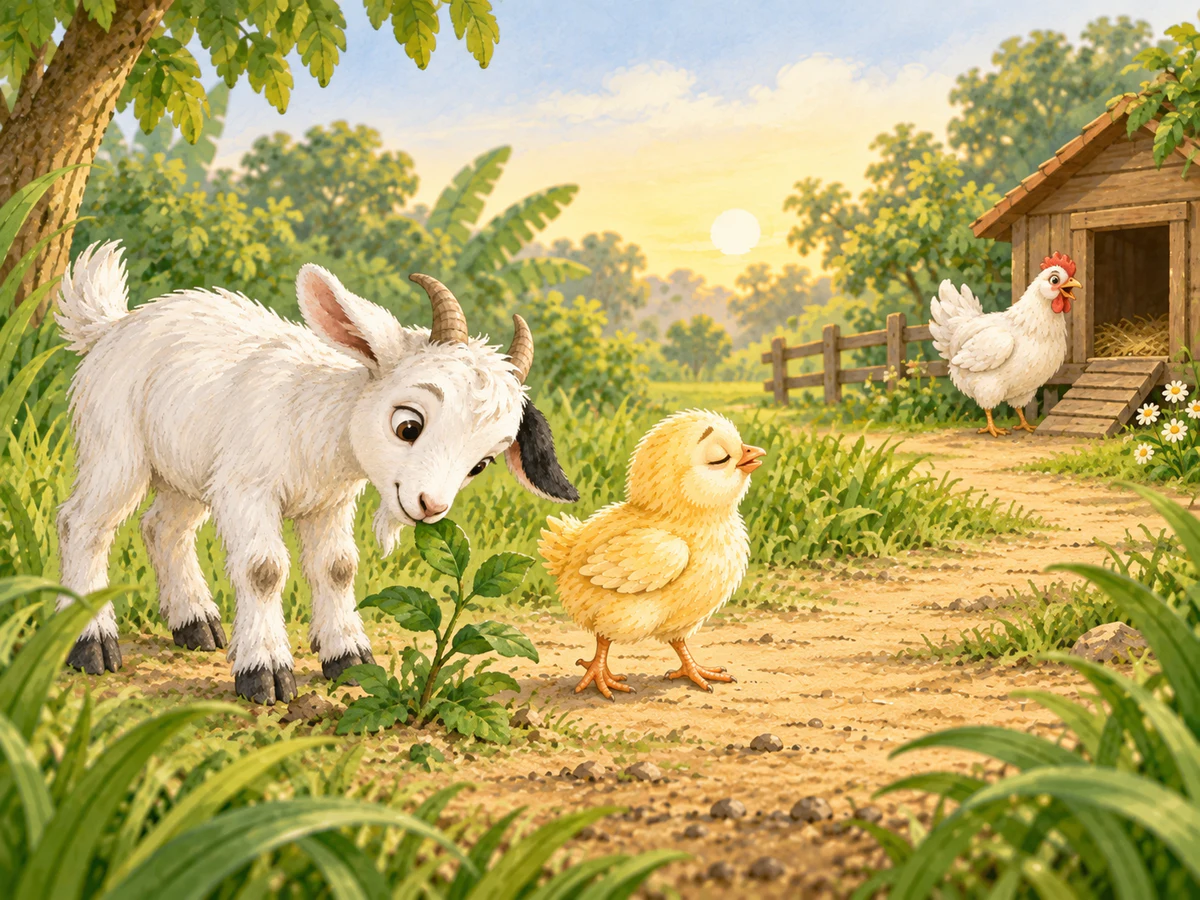
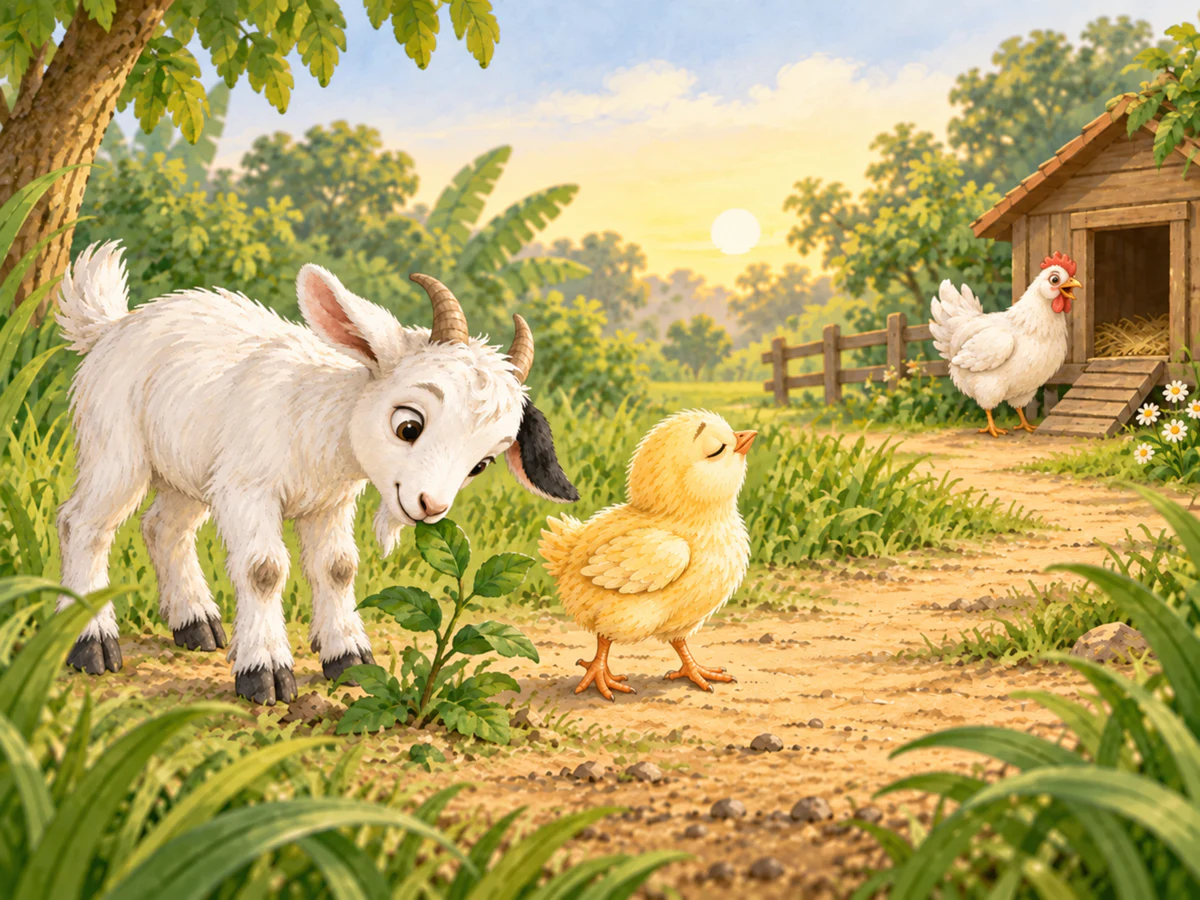
Correct Kumu listening frame for rereview

diff --git a/tests/unit/visual-qa-tracker.test.ts b/tests/unit/visual-qa-tracker.test.ts
@@ -70,7 +70,12 @@ describe("the final September visual QA tracker", () => {
     if (!qa.frozen) return;
     const pendingLessons = new Set(
       richMediaPilot.assets
-        .filter((asset) => asset.reviewState === "awaiting-independent-reconfirmation")
+        .filter((asset) =>
+          [
+            "awaiting-independent-reconfirmation",
+            "corrected-awaiting-independent-reconfirmation",
+          ].includes(asset.reviewState),
+        )
         .flatMap((asset) => asset.approvalImpact.lessonIds),
     );
     for (const asset of data.media) {
@@ -81,7 +86,11 @@ describe("the final September visual QA tracker", () => {
         `${asset.id} moved outside the controlled rollout`,
       ).toContain(pilot?.implementationState);
       expect(
-        ["independently-reconfirmed", "awaiting-independent-reconfirmation"],
+        [
+          "independently-reconfirmed",
+          "awaiting-independent-reconfirmation",
+          "corrected-awaiting-independent-reconfirmation",
+        ],
         `${asset.id} has no controlled review state`,
       ).toContain(pilot?.reviewState);
       expect(pilot?.afterHash, `${asset.id} does not match the audited pilot hash`).toBe(

diff --git a/scripts/visual-reconfirmation.ts b/scripts/visual-reconfirmation.ts
@@ -348,8 +348,9 @@ for (const levelId of levels) {
     "",
     "Pour chaque ligne : aucun texte lu à l’enfant, aucun texte lu à l’adulte, aucun objectif et",
     "aucune progression n’a changé (vérifié avant l’écriture de ce document). **La seule raison**",
-    "du changement d’empreinte est la ligne « image » : ses octets ont changé, et l’empreinte d’une",
-    "approbation couvre les octets de chaque image montrée (ISSUE-026, ADR-048).",
+    "du changement d’empreinte est la présentation visuelle : les octets des images, leurs descriptions",
+    "accessibles et, pour une séquence, sa table page-cadre participent à l’empreinte couverte par",
+    "l’approbation (ISSUE-026, ADR-048).",
     "Pour une séquence, les colonnes « empreinte » ci-dessous abrègent le hash du cadre principal ;",
     "la section « Séquences des histoires » donne tous les SHA-256 et explique l’empreinte complète.",
     "",

diff --git a/docs/work/ACTIVE_TASK.md b/docs/work/ACTIVE_TASK.md
@@ -5,12 +5,44 @@
 September Rich-Media Visual Upgrade
 
 **Current phase:** the controlled pilot and rollout batches 1–4 are independently accepted and fully
-reapproved. Rollout batch 5 integrates only the four-page `histoire-kumu` sequence; exactly four dependent
-lessons are at `review`, 172 remain approved, and all 172 unaffected lesson records remain byte-for-byte
-unchanged. The Kumu review package is frozen locally and awaits owner authorization for bounded Claude Max
-transmission. Production remains unchanged.
+reapproved. The first independent Batch-5 review accepted Kumu frames 1, 2 and 4 and requested one bounded
+frame-3 correction so Kumu's closed eyes remain unmistakable at 256 px. Only frame 3 and the evidence wording
+changed; exactly four dependent lessons remain at `review`, 172 remain approved, and all 172 unaffected lesson
+records remain byte-for-byte unchanged. Corrected evidence is frozen locally and requires fresh owner
+authorization before a second bounded Claude Max review. Production remains unchanged.
 
-## Rollout batch 5 frozen for review — 2026-09-28
+## Rollout batch 5 corrected after independent review — 2026-09-28
+
+- **Reviewer verdict:** Claude Max / Opus 5.5 returned `accepted-with-modifications`. It accepted frames 1, 2
+  and 4, the 12-line / four-page mapping, all unchanged teaching fields, the four expected lapses and the
+  sequence's overall preschool suitability. It requested only clearer closed eyelids and a listening head pose
+  for Kumu in frame 3 at the real 256 px story size.
+- **Independent verification:** the canonical third page says Kumu closes his eyes and listens. The original
+  frame contained a very fine closed eyelid, but the mark became easy to miss at 256 px. The concern was
+  accepted as a small semantic-legibility defect, not a lesson-content defect.
+- **Correction:** only `public/media/illustrations/histoire-kumu-03.webp` was regenerated. Kumu now has clearly
+  closed curved eyelids and raises his head toward the coop. The goat still eats one leaf, the white hen remains
+  beside the same coop, and the path, warm morning, 4:3 framing and text-free painted style remain coherent.
+  The corrected 1200×900 WebP SHA-256 is
[1 lines of base64/hex data omitted]
+- **Evidence precision:** the dossier generator now states that image bytes, accessible descriptions and a
+  sequence's page-to-frame table all participate in the approval fingerprint. The corrected comparison sheet
+  and 3ème maternelle dossier expose the new frame-3 hash while frames 1, 2 and 4 remain unchanged.
+- **Approval integrity:** no approval was restored. September remains 172 approved / 4 review; the affected
+  lessons remain exactly `m3-lang-03`, `m3-lang-04`, `m3-lang-09` and `m3-lang-17`.
+- **Validation:** formatting, lint, typecheck, all 438 unit tests, 31-file content validation, the Webpack
+  production build, three-sentinel client-bundle scan, zero-lapse dry run and the four-width rich-media E2E
+  pass. The default Turbopack build still hits the known local worker port-binding restriction; Webpack is the
+  validated production-build fallback used by this project.
+- **Corrected isolated package:** `/tmp/teka-rollout-batch5-corrected-review` contains exactly the dossier
[2 lines of base64/hex data omitted]
+  (`dc4830e9b3f1ed79a8a32a10a6bd56a1773075ea1eb4c1f23d33567a2e929e2`).
+- **Exact resume point:** obtain fresh owner authorization for only the corrected isolated dossier, comparison
+  sheet and bounded reviewer prompt. Send nothing before that authorization. Restore approvals only after an
+  explicit `accepted` verdict on the corrected evidence.
+
+## Rollout batch 5 initial package frozen for review — 2026-09-28
 
 - **Canonical mapping:** `kumu-le-petit-poussin` contains exactly 12 unchanged lines. The renderer groups three
   story lines per page, producing exactly four pages. The registered sequence maps them one-to-one as
@@ -31,9 +63,8 @@ transmission. Production remains unchanged.
 - **Responsive QA:** the existing rollout E2E loads frames 1–4 in order and verifies natural width, decoding,
   document width and dialog width at 320×740, 768×1024, 1440×900 and 1920×1080. Phone and desktop inspection
   found no broken image, crop, distortion, overflow, adult-content leak or misleading interaction.
-- **Exact resume point:** request explicit owner authorization to send only the frozen 3ème maternelle package,
-  Batch-5 comparison sheet and bounded reviewer prompt through authenticated Claude Max. Restore no approval
-  before an explicit independent `accepted` verdict.
+- **Historical resume point:** the owner authorized this first package; the resulting review and correction are
+  recorded in the newer checkpoint above.
 
 ## Rollout batch 4 independently accepted — 2026-09-27
 

diff --git a/docs/review/2026-2027-maternelle-3-reconfirmation-visuelle.md b/docs/review/2026-2027-maternelle-3-reconfirmation-visuelle.md
@@ -42,7 +42,7 @@ compter), 128 px (une carte de mot), 256 px (l’image d’une histoire).
 | --------------- | ------- | -------------------------------------------------- | ------------------------------------------------------------------------- | -------------------------------------------------------------------------------------------------------------------------------------------------------- |
 | `histoire-kumu` | 1       | `public/media/illustrations/histoire-kumu-01.webp` | `sha256:027ee3b6119faf82c9b58d974846b73e5531b71d5309516b0d8446715f9542be` | Kumu, petit poussin jaune, sort seul du poulailler ouvert tandis que sa maman poule reste derrière lui, près d’un grand manguier et d’un grand seau bleu |
 | `histoire-kumu` | 2       | `public/media/illustrations/histoire-kumu-02.webp` | `sha256:46c72911eec6b4765ccfa37e66ced474e13db28cd5c8144ec20d9517755723b9` | Loin de la maison, Kumu s’arrête sur le chemin et appelle tandis qu’un petit lézard passe en courant                                                     |
-| `histoire-kumu` | 3       | `public/media/illustrations/histoire-kumu-03.webp` | `sha256:f1762fda23ece1bd3c7ce0460b50e49f4b6b299c55b29ba6e2db820cb7d6755a` | Une jeune chèvre mange une feuille pendant que Kumu ferme les yeux et écoute sa maman poule appeler près du poulailler                                   |
+| `histoire-kumu` | 3       | `public/media/illustrations/histoire-kumu-03.webp` | `sha256:3d55d4687ed29f49b0fb5f6934edfb3e918cbba295464f1bfb15ddeb99e7dd95` | Une jeune chèvre mange une feuille pendant que Kumu ferme les yeux et écoute sa maman poule appeler près du poulailler                                   |
 | `histoire-kumu` | 4       | `public/media/illustrations/histoire-kumu-04.webp` | `sha256:3c3a60bdd2fc1913b8394fb8643fa98a545a51ff91fb11d25abf56282b57b13a` | Devant le poulailler, Kumu se blottit au chaud sous l’aile ouverte de sa maman poule et la regarde                                                       |
 
 L’empreinte d’approbation ne se limite pas au hash principal affiché dans le tableau des
@@ -105,8 +105,9 @@ de 3 lignes ; une comptine tient sur une seule page.
 
 Pour chaque ligne : aucun texte lu à l’enfant, aucun texte lu à l’adulte, aucun objectif et
 aucune progression n’a changé (vérifié avant l’écriture de ce document). **La seule raison**
-du changement d’empreinte est la ligne « image » : ses octets ont changé, et l’empreinte d’une
-approbation couvre les octets de chaque image montrée (ISSUE-026, ADR-048).
+du changement d’empreinte est la présentation visuelle : les octets des images, leurs descriptions
+accessibles et, pour une séquence, sa table page-cadre participent à l’empreinte couverte par
+l’approbation (ISSUE-026, ADR-048).
 Pour une séquence, les colonnes « empreinte » ci-dessous abrègent le hash du cadre principal ;
 la section « Séquences des histoires » donne tous les SHA-256 et explique l’empreinte complète.
 

diff --git a/PROJECT_STATUS.md b/PROJECT_STATUS.md
@@ -73,15 +73,17 @@ standard lapsed-only mechanism restored exactly the eight affected lessons with 
 and zero stale approvals remain. The next local batch is the four-page `histoire-kumu` sequence; fresh owner
 authorization is still required before its eventual independent-review package is transmitted.
 
-Rollout batch 5 is frozen locally for independent review. The unchanged 12-line `histoire-kumu` renders as
-four three-line pages and now maps exactly to four 1200×900 WebP scenes: Kumu leaves the coop; calls beside a
-passing lizard; listens beside the leaf-eating goat and finds his mother’s voice; then shelters beneath her
-wing. Character, setting and morning continuity hold across the sequence, with no embedded text. The standard
-lapse mechanism moved exactly `m3-lang-03`, `m3-lang-04`, `m3-lang-09` and `m3-lang-17` to `review`; September is
-172 approved / 4 review and all other 172 lesson records remain byte-for-byte unchanged from `e5c8398`. The
-four-width rollout E2E verifies page order, loaded 1200 px images and zero viewport/dialog overflow; phone and
-desktop inspection found no visual or interaction defect. The Kumu-only dossier and comparison sheet are ready
-locally. They must not be sent to Claude Max until the owner gives fresh explicit authorization.
+The first independent Batch-5 review returned `accepted-with-modifications`: frames 1, 2 and 4, the unchanged
+12-line / four-page mapping and the four expected lapses passed, while frame 3 needed Kumu's closed eyes to read
+more clearly at 256 px. Independent inspection confirmed that the original eyelid was too fine at that size.
+Only frame 3 was regenerated; Kumu now visibly closes both eyes and raises his head toward the coop while the
+leaf-eating goat, white hen, coop, path, warm morning and text-free painted scene remain coherent. The corrected
[1 lines of base64/hex data omitted]
+The dossier generator also now names image bytes, accessible descriptions and sequence page mappings as inputs
+to the approval fingerprint. No approval was restored: September remains 172 approved / 4 review, exactly
+`m3-lang-03`, `m3-lang-04`, `m3-lang-09` and `m3-lang-17` remain at `review`, and the 172 unaffected records are
+unchanged from `e5c8398`. Corrected evidence is frozen locally and must not be sent to Claude Max without fresh
+owner authorization.
 
 ## Independent September visual/UX review — 2026-09-26
 

diff --git a/docs/september-rich-media-audit.md b/docs/september-rich-media-audit.md
@@ -14,8 +14,8 @@ Generated from the canonical media registry, September lessons and supplied text
 - Rollout batch 2 contains two rhyme illustrations. Both assets and all nine lessons that depend on comptine-mains were independently reconfirmed; comptine-cabri is currently unused and lapsed no approval.
 - Rollout batch 3 contains the two-frame histoire-tika sequence. Both frames and both dependent lessons were independently reconfirmed and restored with fresh digests.
 - Rollout batch 4 contains the three-frame histoire-seau-lisa sequence. The corrected evidence and all eight dependent lessons were independently accepted and restored with fresh digests. Six story candidates remain unimplemented.
-- Rollout batch 5 contains the four-frame histoire-kumu sequence. Exactly four dependent lessons await independent reconfirmation; five story candidates remain unimplemented.
[1 lines of base64/hex data omitted]
+- Rollout batch 5 contains the four-frame histoire-kumu sequence. The corrected frame 3 makes Kumu's closed eyes legible at 256 px; exactly four dependent lessons remain at review pending fresh independent acceptance. Five story candidates remain unimplemented.
[1 lines of base64/hex data omitted]
 
 The supplied screenshots validate the distinction: layout and scaling are sound, while the body, rhyme and story art remains visually schematic. Shapes, counting models and isolated objects do not share that defect.
 
